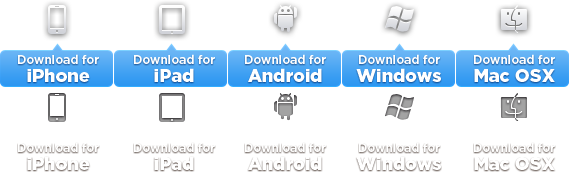
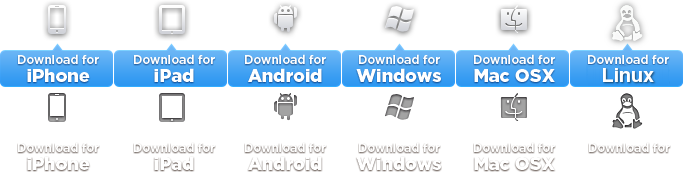
fixed download stuff on login screen

diff --git a/css/dialogs.css b/css/dialogs.css
@@ -551,22 +551,32 @@ border:1px solid #9c9ea4; font-size:11px; color:#777}
   height: 110px;
 }
 
-.wkdownload a {width:114px; height:88px; display:inline-block; text-indent: -23718px; background:url(/images/download.png);}
+.wkdownload a {
+  width: 114px;
+  height: 88px;
+  display: inline-block;
+  text-indent: -23718px;
+  background: url(/images/download.png);
+  background-position-y: -88px;
+}
 
 .wkdownload .iphone {background-position: 0px -88px}
 .wkdownload .iphone:hover {background-position: 0px 0px}
 
-.wkdownload .ipad {background-position: 456px -88px}
-.wkdownload .ipad:hover {background-position: 456px 0px}
+.wkdownload .ipad {background-position: 570px -88px}
+.wkdownload .ipad:hover {background-position: 570px 0px}
 
-.wkdownload .android {background-position: 342px -88px}
-.wkdownload .android:hover {background-position: 342px 0px}
+.wkdownload .android {background-position: 456px -88px}
+.wkdownload .android:hover {background-position: 456px 0px}
 
-.wkdownload .windows {background-position: 228px -88px}
-.wkdownload .windows:hover {background-position: 228px 0px}
+.wkdownload .windows {background-position: 342px -88px}
+.wkdownload .windows:hover {background-position: 342px 0px}
 
-.wkdownload .mac {background-position: 114px -88px}
-.wkdownload .mac:hover {background-position: 114px 0px}
+.wkdownload .mac {background-position: 228px -88px}
+.wkdownload .mac:hover {background-position: 228px 0px}
+
+.wkdownload .linux {background-position: 114px -88px}
+.wkdownload .linux:hover {background-position: 114px 0px}
 
 .wkdownload .notyet {opacity:0.5}
 .wkdownload .notyet:hover {background-position: 342px -88px; cursor:default}
@@ -627,7 +637,7 @@ border:1px solid #9c9ea4; font-size:11px; color:#777}
 }
 
 .followus:hover .wklogo {
-  margin-top: -60px;
+  margin-top: -55px;
   opacity: 0;
 }
 
